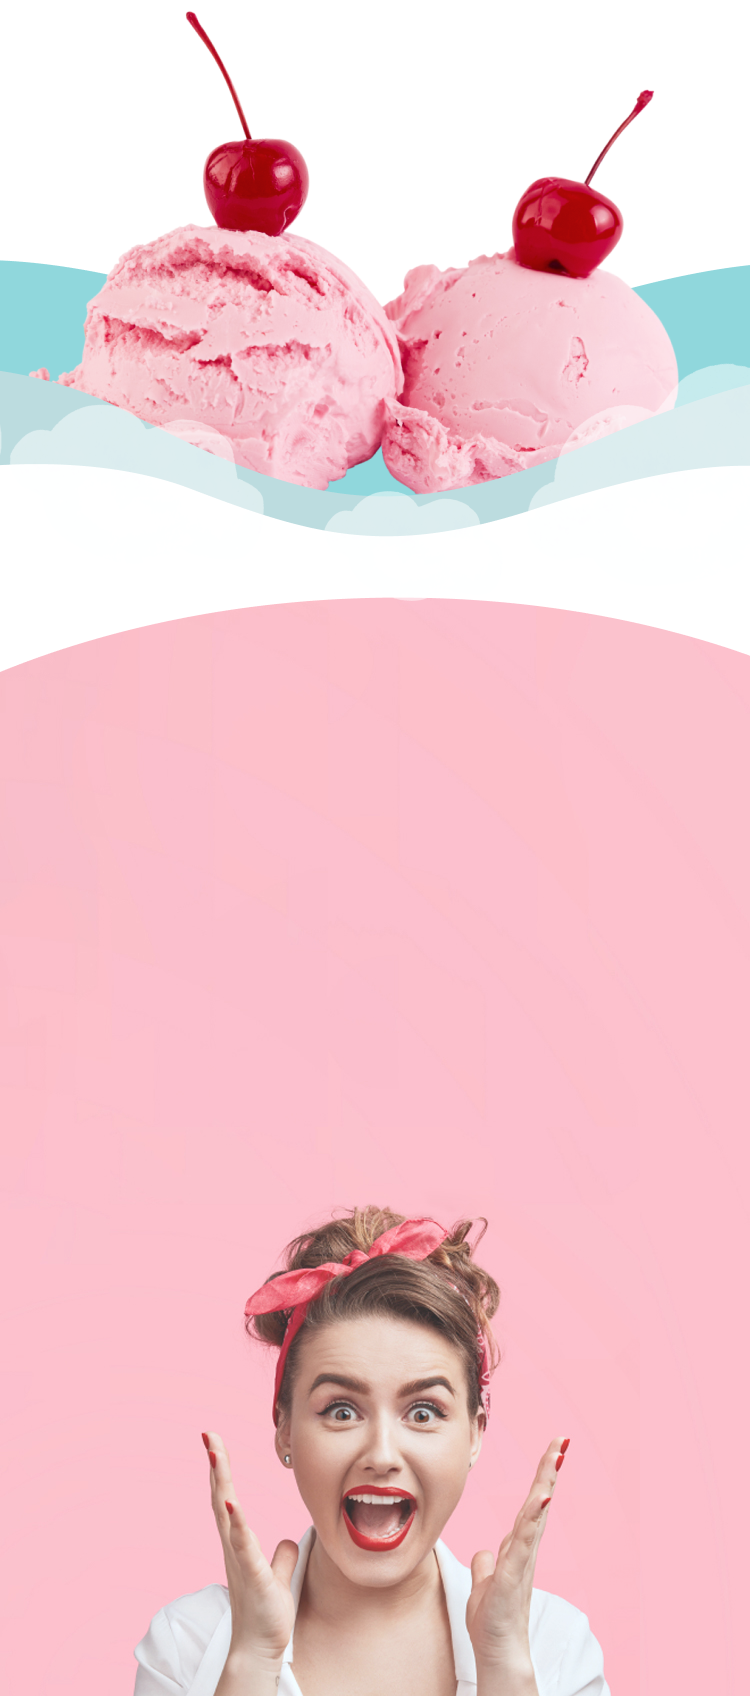
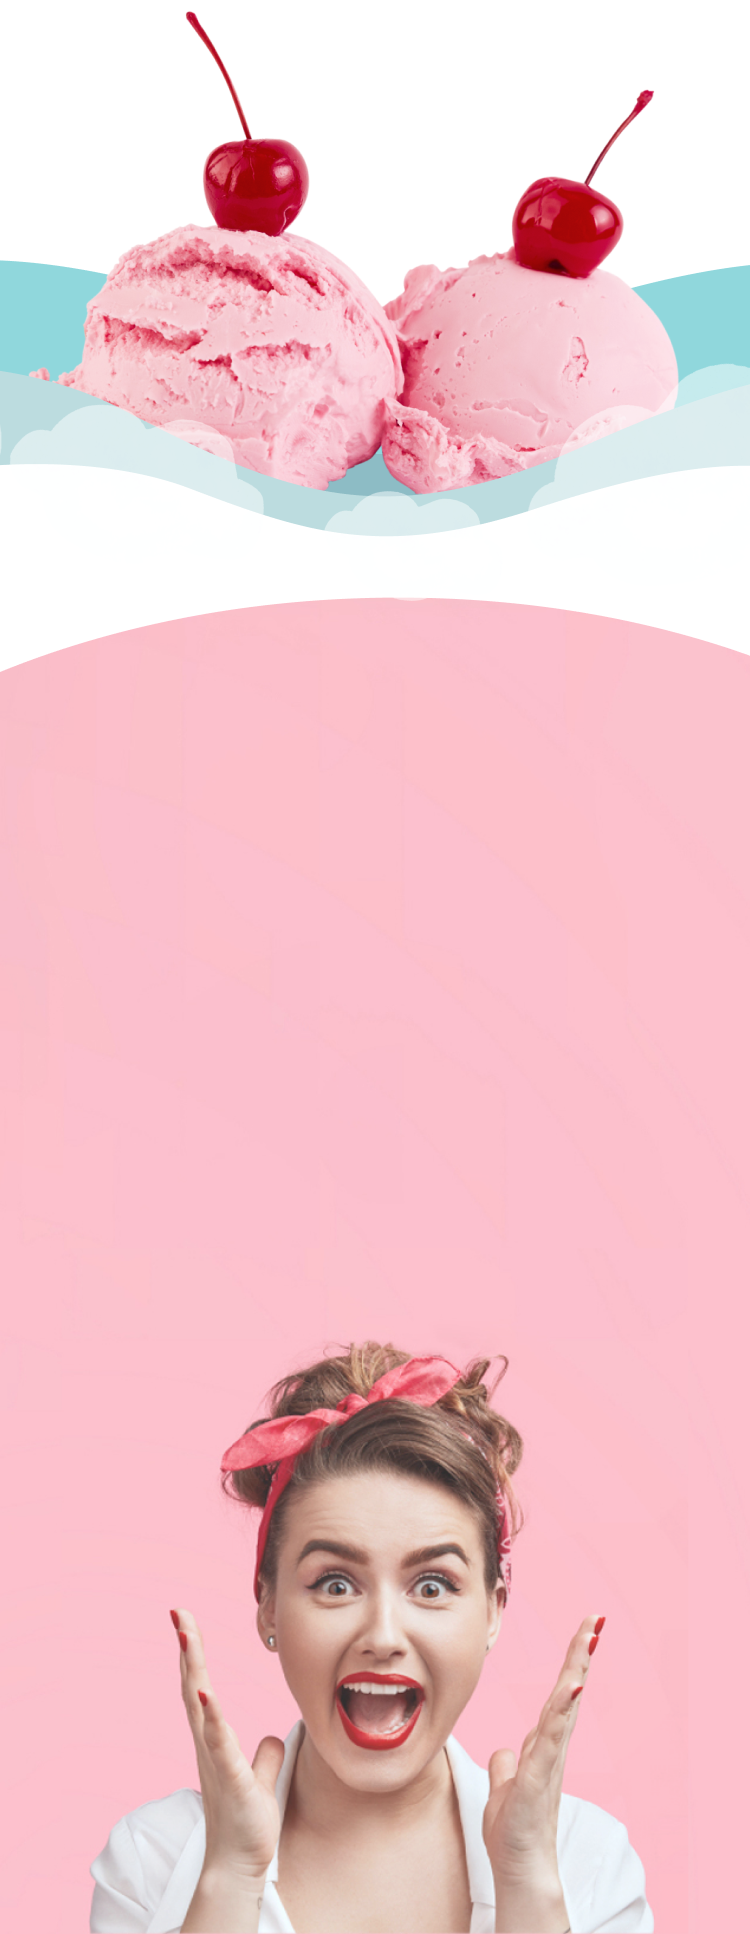
backgrounds responsive
cambio de tamaño en backgrounds

Changed region(s): [[0.0, 0.0, 1.0, 0.4062], [0.1227, 0.6875, 0.8893, 1.0]]

diff --git a/wp-content/themes/heladoscielos/css/style.css b/wp-content/themes/heladoscielos/css/style.css
@@ -466,7 +466,7 @@ html, body {
   }
 
   .main-contenedor-promo .main-form-promo {
-    top: 15%;
+    top: 7%;
     left: 12%;
     text-align: center;
     width: 80%;
@@ -508,7 +508,7 @@ html, body {
 
   .fondo01 {
     background-image: url("https://luciamouriz.github.io/heladoscielos-web/wp-content/themes/heladoscielos/img/mobile/fondo01.png");
-    height: 235vw;
+    height: 300vw;
   }
 
   .fondo02 {
@@ -570,10 +570,11 @@ html, body {
   }
   .texto-fondo-fijo .text-big {
     font-size: 7vw;
+    margin-bottom: 10px;
   }
   .texto-fondo-fijo .text-medium {
     font-size: 3.5vw;
-    line-height: 15px;
+    line-height: 1.3em;
   }
 
   .main-contenedor-influencers .hastag {
